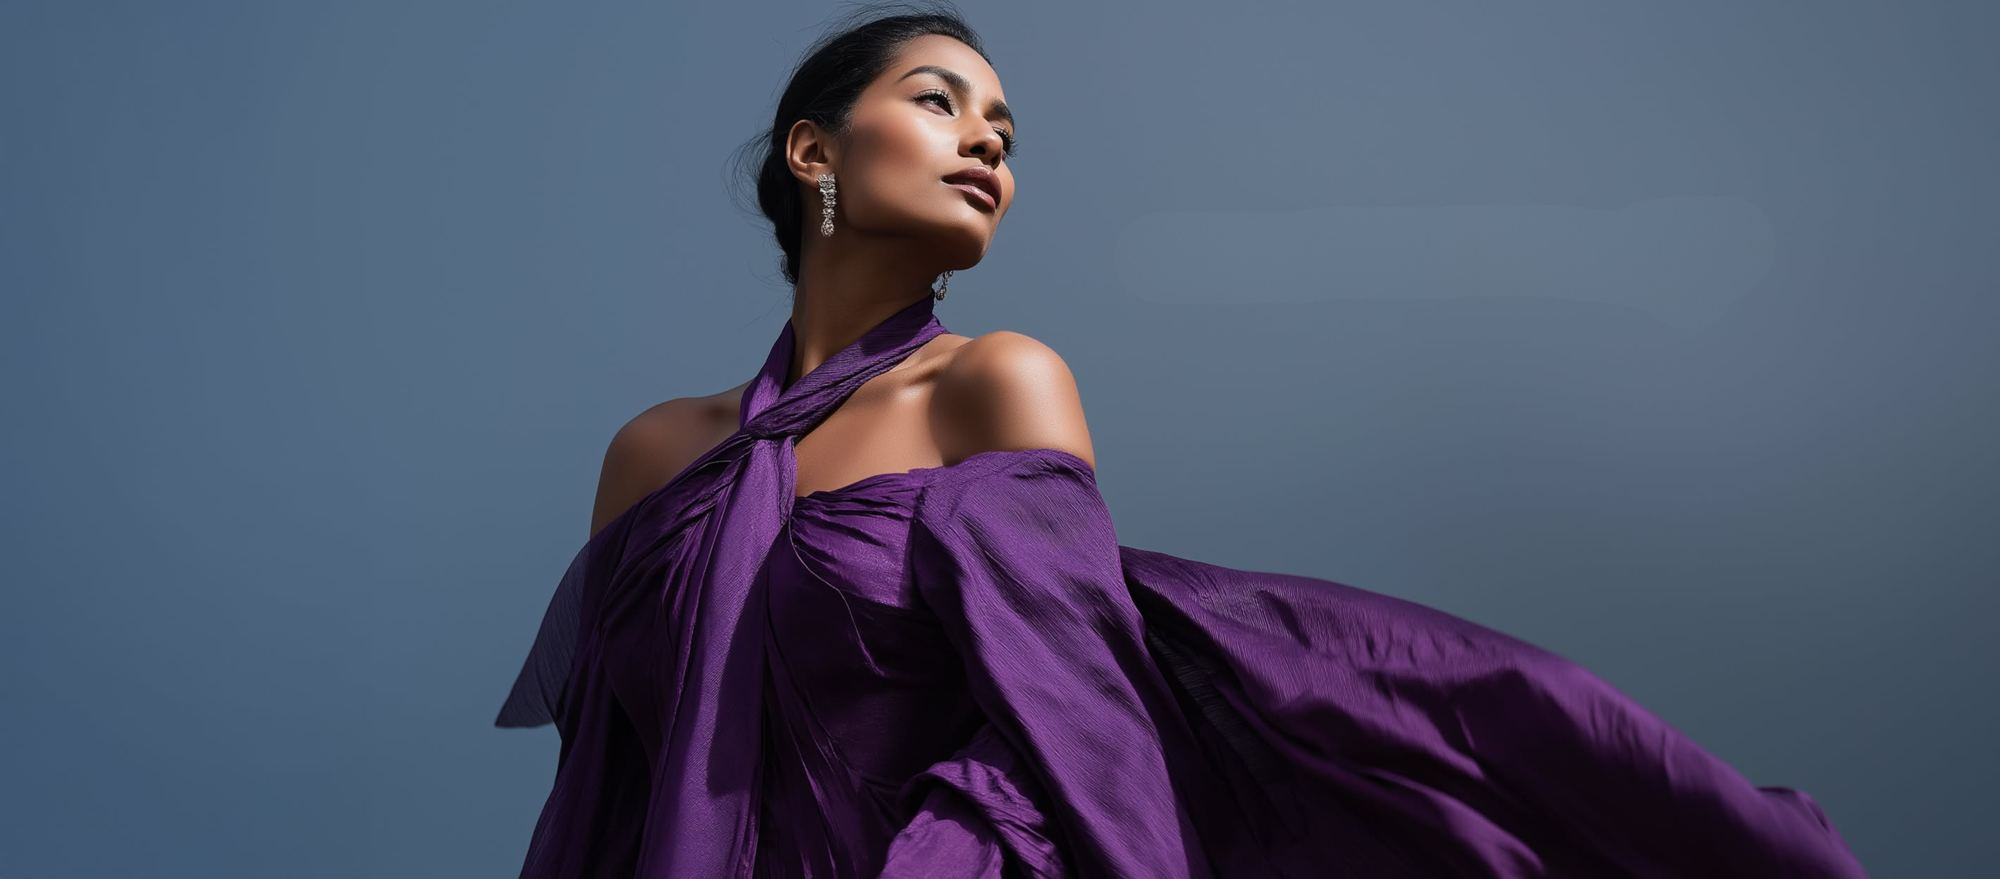
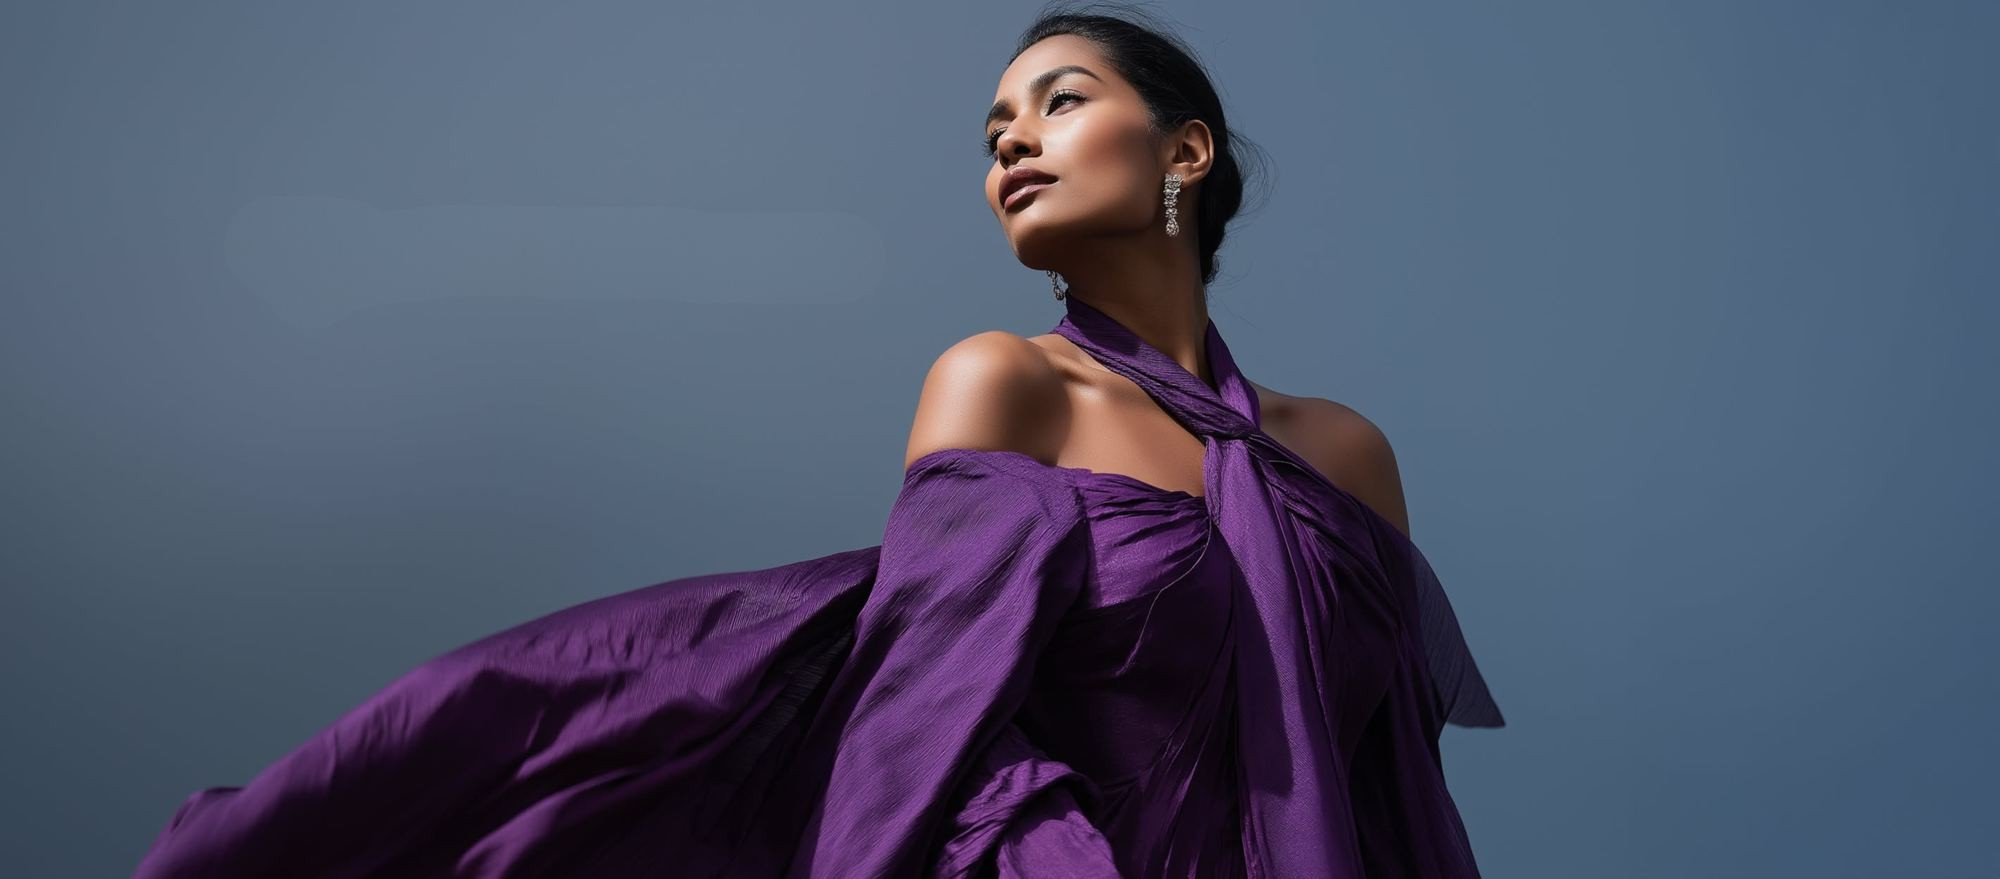
New hero photography with phone versions
- Hero slideshow now uses the lion, cufflink and ring campaign photos
- Wide computer versions keep each subject clear of the headline
- Separate phone versions; on phones the photo sits above the text
- Care tag removed from the hero so it no longer covers the photos

diff --git a/index.html b/index.html
@@ -7,7 +7,7 @@
 <meta name="description" content="LaundroPlus is a premium laundry and dry cleaning boutique in Colombo. Every garment is inspected by hand before cleaning. Outlets at Cinnamon Grand, Ward Place and Trizen.">
 <meta property="og:title" content="LaundroPlus | Premium Laundry & Dry Cleaning in Colombo">
 <meta property="og:description" content="Every fabric inspected by hand before it's washed. Washing, dry cleaning, pressing and express service across Colombo.">
-<meta property="og:image" content="img/banner-four.jpg">
+<meta property="og:image" content="img/hero-lion.jpg">
 <meta name="theme-color" content="#121a2e">
 <link rel="icon" type="image/png" href="img/favicon.png">
 <link rel="preconnect" href="https://fonts.googleapis.com">
@@ -28,7 +28,7 @@
   "@context": "https://schema.org",
   "@type": "DryCleaningOrLaundry",
   "name": "LaundroPlus",
-  "image": "img/banner-four.jpg",
+  "image": "img/hero-lion.jpg",
   "telephone": "+94117555515",
   "email": "info@laundroplus.lk",
   "address": {"@type": "PostalAddress", "streetAddress": "331 Park Road", "addressLocality": "Colombo 05", "addressCountry": "LK"},
@@ -86,9 +86,9 @@
   <!-- HERO -->
   <section class="hero" aria-labelledby="hero-title">
     <div class="hero__slides" aria-hidden="true">
-      <picture class="is-active"><source media="(max-width:760px)" srcset="img/banner-four-sm.jpg"><img src="img/banner-four.jpg" alt=""></picture>
-      <picture><source media="(max-width:760px)" srcset="img/banner-five-sm.jpg"><img src="img/banner-five.jpg" alt="" loading="lazy"></picture>
-      <picture><source media="(max-width:760px)" srcset="img/banner-three-sm.jpg"><img src="img/banner-three.jpg" alt="" loading="lazy"></picture>
+      <picture class="is-active hero__slide--lion"><source media="(max-width:760px)" srcset="img/hero-lion-sm.jpg"><img src="img/hero-lion.jpg" alt=""></picture>
+      <picture class="hero__slide--cufflink"><source media="(max-width:760px)" srcset="img/hero-cufflink-sm.jpg"><img src="img/hero-cufflink.jpg" alt=""></picture>
+      <picture class="hero__slide--ring"><source media="(max-width:760px)" srcset="img/hero-ring-sm.jpg"><img src="img/hero-ring.jpg" alt=""></picture>
     </div>
     <div class="hero__content wrap">
       <p class="eyebrow">Laundry &amp; dry cleaning · Colombo</p>
@@ -100,21 +100,6 @@
       </div>
     </div>
 
-    <!-- Signature: a boutique swing tag -->
-    <aside class="tag" aria-label="Our care promise">
-      <svg class="tag__string" viewBox="0 0 40 160" preserveAspectRatio="none" aria-hidden="true"><path d="M20 160C4 118 36 70 14 0"/></svg>
-      <div class="tag__card">
-        <span class="tag__eyelet" aria-hidden="true"></span>
-        <img class="tag__logo" src="img/logo.png" alt="" width="54" height="54">
-        <p class="tag__eyebrow">Our care promise</p>
-        <ul class="tag__list">
-          <li><svg aria-hidden="true"><use href="#ic-inspect"/></svg><span>Checked by hand <em>before</em> it’s cleaned</span></li>
-          <li><svg aria-hidden="true"><use href="#ic-dry"/></svg><span>Cleaned the way <em>its fabric</em> needs</span></li>
-          <li><svg aria-hidden="true"><use href="#ic-iron"/></svg><span>Pressed and finished <em>by hand</em></span></li>
-        </ul>
-        <p class="tag__foot">LaundroPlus · Colombo</p>
-      </div>
-    </aside>
   </section>
 
   <!-- PROCESS: a real sequence, shown as a timeline -->

diff --git a/styles.css b/styles.css
@@ -108,7 +108,9 @@ em { font-style: italic; }
 .hero__slides, .hero__slides picture { position: absolute; inset: 0; }
 .hero__slides picture { opacity: 0; transition: opacity 1.6s ease; }
 .hero__slides picture.is-active { opacity: 1; }
-.hero__slides img { width: 100%; height: 100%; object-fit: cover; object-position: 70% 30%; transform: scale(1.03); transition: transform 10s ease-out; }
+.hero__slides img { width: 100%; height: 100%; object-fit: cover; object-position: right center; transform: scale(1.03); transition: transform 10s ease-out; }
+/* The lion photo is mirrored; aligning it left puts the lion on the right, clear of the headline */
+.hero__slide--lion img { object-position: left center; }
 .hero__slides .is-active img { transform: scale(1); }
 .hero::after {
   content: ""; position: absolute; inset: 0; pointer-events: none;
@@ -454,10 +456,16 @@ em { font-style: italic; }
 }
 @media (max-width: 760px) {
   body { font-size: 16px; }
-  .hero { align-items: flex-end; }
-  .hero__slides img { object-position: 78% 20%; }
-  .hero::after { background: linear-gradient(0deg, rgba(11, 13, 18, .92) 10%, rgba(11, 13, 18, .35) 60%, rgba(11, 13, 18, .2)); }
-  .hero__content { padding-bottom: 64px; }
+  /* Phone hero: photo on top, text underneath, so the text never covers the subject */
+  .hero { display: block; min-height: 0; padding-top: 72px; }
+  .hero::after { display: none; }
+  .hero__slides { position: relative; height: min(50svh, 420px); overflow: hidden; }
+  .hero__slides::after { content: ""; position: absolute; inset: auto 0 0 0; height: 22%; background: linear-gradient(0deg, #0b0d12, transparent); }
+  .hero__slides img { object-position: center 40%; }
+  .hero__slide--lion img { object-position: center 88%; }
+  .hero__slide--ring img { object-position: center 70%; }
+  .hero__slide--cufflink img { object-position: center 62%; }
+  .hero__content { padding-top: 8px; padding-bottom: 56px; }
   .tag { display: none; }
   .services__grid, .outlets__grid { grid-template-columns: 1fr; }
   .sectors div { grid-template-columns: 1fr; gap: 4px; }

diff --git a/motion.js b/motion.js
@@ -48,7 +48,7 @@
   h1.replaceChildren(frag);
 
   const words = h1.querySelectorAll('.w__i');
-  const bits = document.querySelectorAll('.hero .eyebrow, .hero__lede, .hero__cta, .tag');
+  const bits = document.querySelectorAll('.hero .eyebrow, .hero__lede, .hero__cta');
   const tl = gsap.timeline({ defaults: { ease: 'power3.out' }, delay: 0.15 });
   tl.from(words, { yPercent: 105, duration: 1.1, stagger: 0.05 })
     .from(bits, { autoAlpha: 0, y: 12, duration: 0.9, stagger: 0.08 }, '-=0.7');
